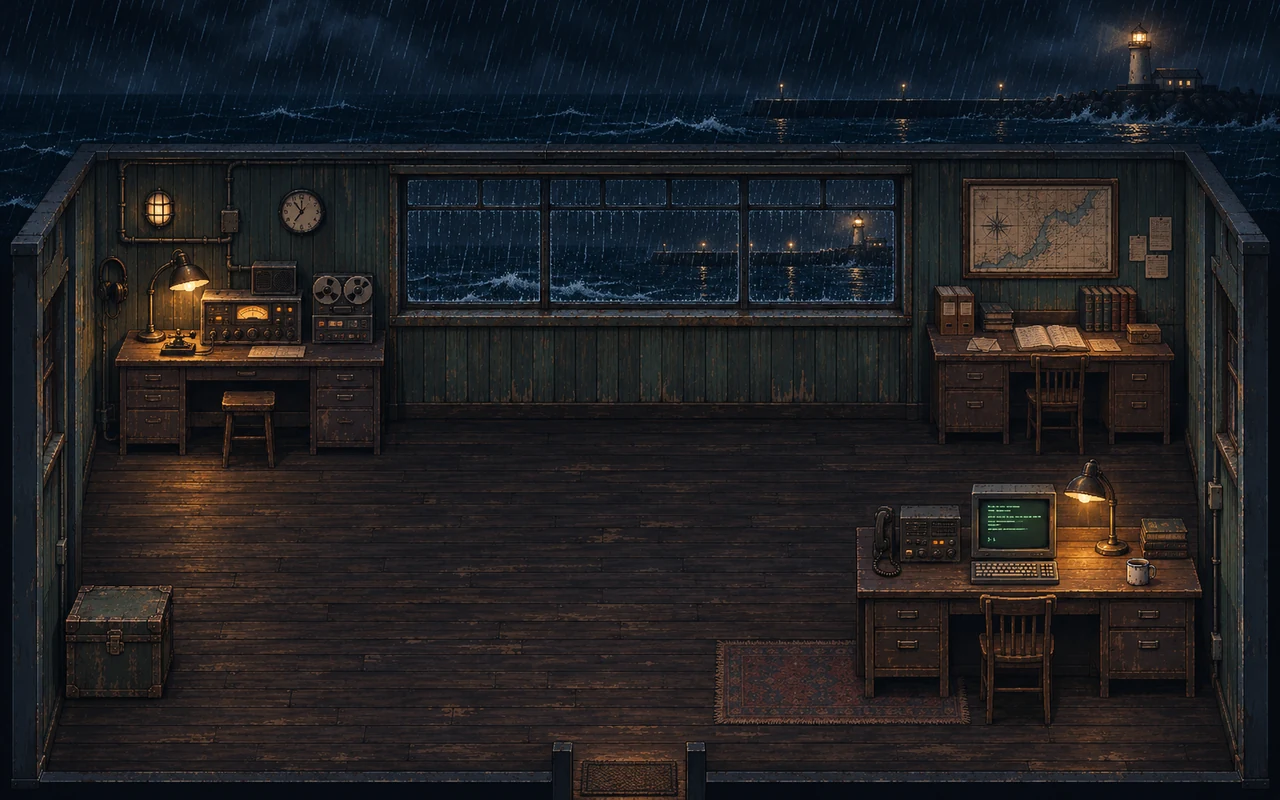
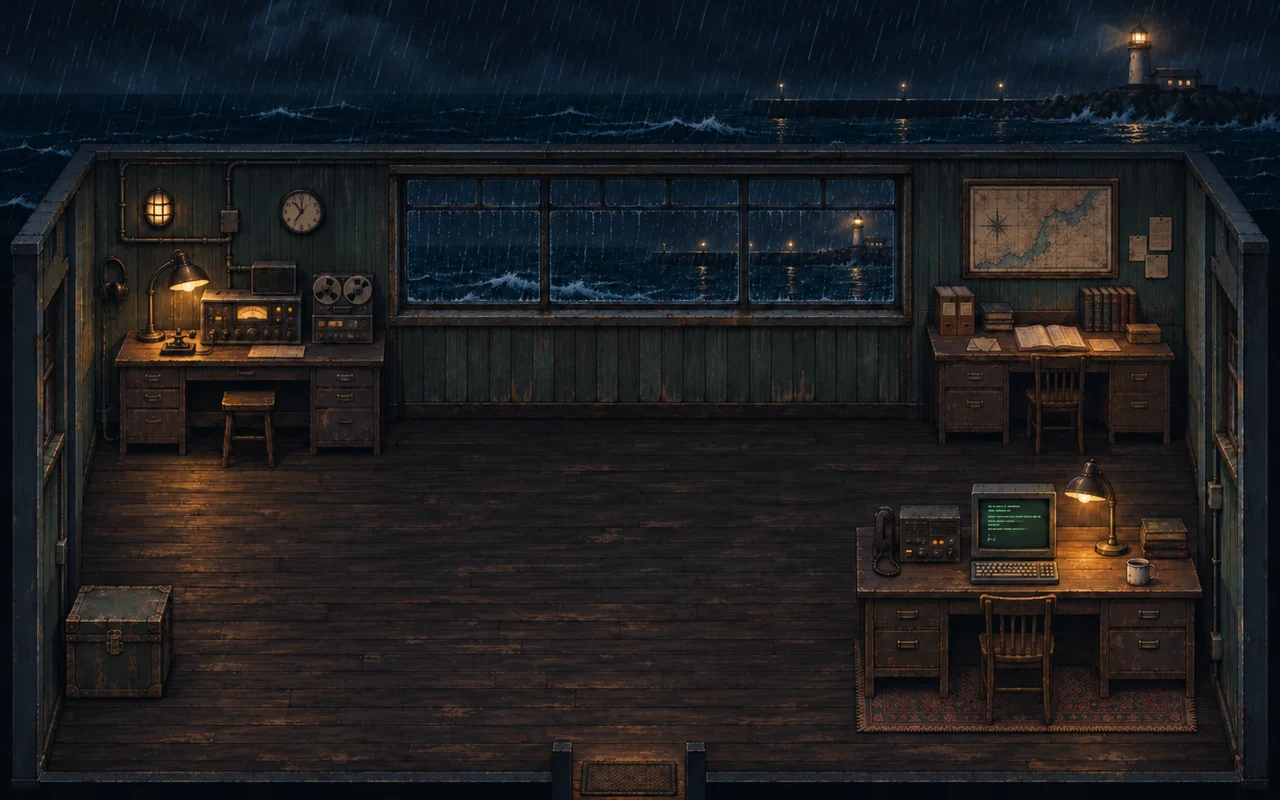
Polish room collision, perspective, quest beacons and furniture occlusion

diff --git a/src/styles/game.css b/src/styles/game.css
@@ -21,11 +21,13 @@ h1, h2 { font-family: Georgia, serif; font-weight: 400; line-height: 1.08; }
 .station, .rain, .objects { pointer-events: none; }
 .station { image-rendering: pixelated; transition: filter 1.2s ease; }
 .live .station { filter: brightness(1.05); }
+.terminal-foreground { z-index: 351; mask: url("../../assets/scenes/terminal-occlusion.svg") center / 100% 100% no-repeat; -webkit-mask: url("../../assets/scenes/terminal-occlusion.svg") center / 100% 100% no-repeat; }
+.chair-foreground { z-index: 364; mask: url("../../assets/scenes/chair-occlusion.svg") center / 100% 100% no-repeat; -webkit-mask: url("../../assets/scenes/chair-occlusion.svg") center / 100% 100% no-repeat; }
 .rain::before, .rain::after { content: ""; position: absolute; background: repeating-linear-gradient(112deg, transparent 0 43px, #9aaeb01a 45px 46px, transparent 47px 83px); animation: rain 1.6s linear infinite; }
 .rain::before { inset: 0 0 81%; }
 .rain::after { left: 31.6%; top: 22.5%; width: 38.5%; height: 15.6%; }
 @keyframes rain { to { background-position: -25px 44px; } }
-.sprite { position: absolute; width: 8.75%; aspect-ratio: 2 / 3; translate: -50% -92.857143%; background: url("../../assets/characters/echo-night.png") no-repeat 0 0 / 400% 300%; image-rendering: pixelated; pointer-events: none; z-index: 2; filter: drop-shadow(0 1px 1px #060b10); }
+.sprite { position: absolute; width: 8.75%; aspect-ratio: 2 / 3; transform-origin: 50% 92.857143%; translate: -50% -92.857143%; background: url("../../assets/characters/echo-night.png") no-repeat 0 0 / 400% 300%; image-rendering: pixelated; pointer-events: none; z-index: 2; filter: drop-shadow(0 1px 1px #060b10); }
 .sprite::before { position: absolute; content: ""; inset: 90% 25% 3%; border-radius: 50%; background: #060b1080; z-index: -1; }
 /* Verified sheet columns: down, right, up, left. */
 .player[data-dir="up"] { background-position-x: calc(200% / 3); }
@@ -42,11 +44,14 @@ h1, h2 { font-family: Georgia, serif; font-weight: 400; line-height: 1.08; }
 .live .lamp-signal { animation: glow 2.2s ease-in-out infinite alternate; }
 @keyframes glow { from { opacity: .37; } to { opacity: 1; } }
 .objects { z-index: 400; }
-.marker { pointer-events: auto; position: absolute; translate: -50% -100%; display: flex; align-items: center; gap: 5px; border: 1px solid #87765d; background: #23272bed; color: #f8ddb5; border-radius: 4px; padding: 4px 7px; white-space: nowrap; font: clamp(9px, 1.2vw, 12px)/1.2 var(--mono); box-shadow: 0 2px 6px #0e131aaa; }
-.marker::before { content: "◇"; color: var(--amber); }
-.marker:hover, .marker.near { background: #3f392e; border-color: var(--amber); }
-.marker.current::before { content: "◆"; }
-.marker.call { border-color: var(--aqua); color: var(--aqua); }
+.marker { pointer-events: auto; position: absolute; translate: -50% -100%; width: clamp(28px, 2.7vw, 38px); height: clamp(28px, 2.7vw, 38px); padding: 0; border: 1px solid transparent; border-radius: 7px; background: transparent; font-size: 0; line-height: 0; }
+/* Only recommended targets receive a visible beacon or box. Other props keep
+   their click/keyboard interaction, with a label available on hover or focus. */
+.marker.current { background: #211c13dc; border-color: #e3b978; box-shadow: 0 2px 9px #070b11aa; }
+.marker.current::before { content: ""; position: absolute; left: 50%; top: 50%; translate: -50% -50%; width: 9px; height: 9px; border-radius: 50%; background: #ffda89; box-shadow: 0 0 0 4px #eabb7c22, 0 0 12px #f1bc6eaa; animation: beacon 2s ease-in-out infinite alternate; }
+.marker.current:hover, .marker.current.near { background: #40321be8; border-color: #ffe1a4; }
+.marker:hover::after, .marker:focus-visible::after { content: attr(aria-label); position: absolute; left: 50%; top: calc(100% + 5px); translate: -50% 0; width: max-content; max-width: 170px; padding: 5px 8px; border: 1px solid #596364; border-radius: 4px; background: #152026ed; color: var(--text); white-space: nowrap; font: 11px/1.3 var(--mono); pointer-events: none; }
+@keyframes beacon { to { box-shadow: 0 0 0 6px #eabb7c16, 0 0 17px #ffd589cc; } }
 .prompt { position: absolute; z-index: 401; bottom: 9px; left: 50%; translate: -50% 0; width: max-content; max-width: 93%; text-align: center; color: var(--amber); background: #131d23ed; border: 1px solid #846e53; padding: 4px 8px; border-radius: 4px; font-size: 11px; pointer-events: none; }
 .eyebrow { color: var(--amber); font-size: 11px; letter-spacing: .15em; margin: 19px 0 9px; text-transform: uppercase; }
 h2 { font-size: 31px; }
@@ -71,21 +76,15 @@ dialog::backdrop { background: #0a1017a8; }
 .action.primary, .action.suggested { background: #363429; border-color: #9f835d; }
 .action .tag { display: block; color: var(--amber); font: 10px var(--mono); text-transform: uppercase; letter-spacing: .1em; margin-bottom: 4px; }
 
-@media (max-width: 430px) {
-  .marker { padding: 5px 6px; min-height: 26px; }
-  .marker::before { display: none; }
-}
 @media (prefers-reduced-motion: reduce) { *, *::before, *::after { animation: none !important; transition: none !important; } }
 
 /* The map fills the game surface. Menus are opened on demand. */
 body { overflow: hidden; background: #0d151d; }
 .game-screen { display: grid; place-items: center; width: 100%; height: 100dvh; }
 .room { width: min(100vw, 160dvh); border: 0; }
-.marker { padding: 4px 6px; font-size: 0; border-color: transparent; background: #171f2480; box-shadow: none; }
-.marker::before { display: block; font-size: 12px; }
-.marker:hover, .marker:focus-visible { font-size: clamp(9px, 1.2vw, 12px); }
 .touch-menu { display: none; }
 @media (pointer: coarse) {
+  .marker { width: 44px; height: 44px; }
   .touch-menu { display: flex; gap: 8px; position: fixed; top: max(10px, env(safe-area-inset-top)); right: 10px; }
   .touch-menu button { width: 44px; height: 44px; background: #162228db; border: 1px solid var(--line); border-radius: 5px; }
 }

diff --git a/src/main.js b/src/main.js
@@ -1,12 +1,13 @@
-import { chapters, exercises } from "./data/story.js?v=night-station-1";
-import { interactionPoints, obstacles, maraObstacle, walkBounds, playerStart } from "./data/station.js?v=night-station-1";
-import { distance, findRoute } from "./core/navigation.js?v=night-station-1";
-import { isSoundOn, toggleSound, startAmbience, stopAmbience, footstep, playEffect } from "./audio/sound.js?v=night-station-1";
-import { creditsMarkup } from "./data/credits.js?v=night-station-1";
-import { byId, dialog, show, close, done, configureDialog } from "./ui/dialog.js?v=night-station-1";
+import { chapters, exercises } from "./data/story.js?v=room-polish-1";
+import { interactionPoints, playerStart } from "./data/station.js?v=room-polish-1";
+import { canStand, actorScale } from "./core/world.js?v=room-polish-1";
+import { distance, findRoute } from "./core/navigation.js?v=room-polish-1";
+import { isSoundOn, toggleSound, startAmbience, stopAmbience, footstep, playEffect } from "./audio/sound.js?v=room-polish-1";
+import { creditsMarkup } from "./data/credits.js?v=room-polish-1";
+import { byId, dialog, show, close, done, configureDialog } from "./ui/dialog.js?v=room-polish-1";
 
-import { createRadioScene } from "./scenes/radio.js?v=night-station-1";
-import { createCallScene } from "./scenes/call.js?v=night-station-1";
+import { createRadioScene } from "./scenes/radio.js?v=room-polish-1";
+import { createCallScene } from "./scenes/call.js?v=room-polish-1";
 
 configureDialog(stopWalking);
 
@@ -56,6 +57,7 @@ for (const [id, station] of Object.entries(stations)) {
   marker.style.left = `${(station.markerX ?? station.x) / 6.4}%`;
   marker.style.top = `${station.markerY / 4}%`;
   marker.textContent = station.label;
+  marker.ariaLabel = station.label;
   marker.addEventListener("click", () => walkTo(station, station.use));
   byId("objects").append(marker);
   station.marker = marker;
@@ -66,15 +68,15 @@ function place(element, point) {
   element.style.left = `${point.x / 6.4}%`;
   element.style.top = `${point.y / 4}%`;
   element.style.zIndex = Math.round(point.y);
+  element.style.scale = actorScale(point.y).toFixed(3);
 }
 
 function walkable({ x, y }) {
-  const inside = ([left, top, right, bottom]) =>
-    x >= left && x <= right && y >= top && y <= bottom;
-  return x >= walkBounds.left && x <= walkBounds.right
-    && y >= walkBounds.top && y <= walkBounds.bottom
-    && !obstacles.some(inside)
-    && (byId("mara-sprite").hidden || !inside(maraObstacle));
+  return canStand({ x, y }, !byId("mara-sprite").hidden);
+}
+
+function interactionDistance(point, station) {
+  return Math.min(...(station.approaches ?? [station]).map((target) => distance(point, target)));
 }
 
 function stopWalking() {
@@ -86,8 +88,8 @@ function stopWalking() {
 
 function nearStation() {
   return Object.values(stations)
-    .filter((station) => !station.marker.hidden && distance(position, station) <= interactRange)
-    .sort((a, b) => distance(position, a) - distance(position, b))[0];
+    .filter((station) => !station.marker.hidden && interactionDistance(position, station) <= interactRange)
+    .sort((a, b) => interactionDistance(position, a) - interactionDistance(position, b))[0];
 }
 
 function renderPlayer() {
@@ -103,11 +105,14 @@ function renderPlayer() {
 function walkTo(target, use) {
   if (dialog.open) return;
   stopWalking();
-  if (use && distance(position, target) <= interactRange) {
+  if (use && interactionDistance(position, target) <= interactRange) {
     use();
     return;
   }
-  const route = findRoute(position, target, walkable, use ? interactRange - 4 : 6);
+  const routes = (use ? target.approaches ?? [target] : [target])
+    .map((point) => findRoute(position, point, walkable, use ? interactRange - 4 : 6));
+  const route = routes.filter((candidate) => candidate.reached)
+    .sort((a, b) => a.path.length - b.path.length)[0] ?? routes[0];
   path = route.path;
   if (use && route.reached) destination = use;
 }
@@ -251,9 +256,11 @@ function renderWorld() {
   byId("mara-sprite").hidden = live;
   stations.mara.marker.hidden = live;
   stations.terminal.marker.textContent = live ? "Live terminal" : "Terminal";
-  stations.terminal.marker.classList.toggle("call", state.phase === "live");
+  stations.terminal.marker.ariaLabel = stations.terminal.marker.textContent;
+  const archiveReady = ["tape", "letter", "manual", "comparison"]
+    .every((id) => state.evidence.has(id));
   const active = {
-    mara: ["arrival", "archive", "ready"].includes(state.phase),
+    mara: ["arrival", "ready"].includes(state.phase) || (state.phase === "archive" && archiveReady),
     radio: ["archive", "investigation"].includes(state.phase) && !state.evidence.has(live ? "live" : "comparison"),
     archive: (state.phase === "archive" && (!state.evidence.has("manual") || !state.evidence.has("letter")))
       || (state.phase === "investigation" && !state.evidence.has("rechecked")),

diff --git a/index.html b/index.html
@@ -7,13 +7,15 @@
   <meta name="description" content="A short narrative RPG about the night a harbor signal station goes live.">
   <title>Last Light · Signal House</title>
   <link rel="icon" href="./assets/ui/icon.svg" type="image/svg+xml">
-  <link rel="stylesheet" href="./src/styles/game.css?v=night-station-1">
-  <script type="module" src="./src/main.js?v=night-station-1"></script>
+  <link rel="stylesheet" href="./src/styles/game.css?v=room-polish-1">
+  <script type="module" src="./src/main.js?v=room-polish-1"></script>
 </head>
 <body>
   <main class="game-screen" aria-label="Signal House game">
         <div id="room" class="room">
-          <img class="station" src="./assets/scenes/station-night.webp" alt="" draggable="false">
+          <img class="station" src="./assets/scenes/station-night.webp?v=room-polish-1" alt="" draggable="false">
+          <img class="station terminal-foreground" src="./assets/scenes/station-night.webp?v=room-polish-1" alt="" aria-hidden="true" draggable="false">
+          <img class="station chair-foreground" src="./assets/scenes/station-night.webp?v=room-polish-1" alt="" aria-hidden="true" draggable="false">
           <div class="rain" aria-hidden="true"></div>
           <div class="sprite player" id="player" aria-hidden="true"></div>
           <div class="sprite mara" id="mara-sprite" aria-hidden="true"></div>

diff --git a/src/data/station.js b/src/data/station.js
@@ -6,10 +6,16 @@ export const interactionPoints = {
   mara: { label: "Mara", x: 319, y: 243, markerY: 164 },
   radio: { label: "Radio", x: 143, y: 248, markerY: 157 },
   archive: { label: "Archive", x: 522, y: 248, markerX: 528, markerY: 154 },
-  terminal: { label: "Terminal", x: 410, y: 320, markerX: 507, markerY: 243 },
+  terminal: {
+    label: "Terminal", x: 410, y: 320, markerX: 507, markerY: 243,
+    approaches: [{ x: 410, y: 320 }, { x: 467, y: 369 }, { x: 513, y: 376 }],
+  },
 };
 export const obstacles = [
   [51, 154, 202, 235], [462, 146, 595, 232],
-  [425, 243, 609, 364], [32, 288, 94, 362],
+  // Desk and chair have separate floor footprints. The monitor/lamp silhouettes
+  // above the desk do not block the passage to the archive.
+  [429, 286, 603, 351], [488, 337, 531, 364], [32, 288, 94, 362],
 ];
-export const maraObstacle = [308, 225, 330, 243];
+// Includes room for the player's feet on every side of Mara, including in front.
+export const maraObstacle = [293, 218, 345, 268];

diff --git a/src/core/world.js b/src/core/world.js
@@ -1,0 +1,16 @@
+import { obstacles, maraObstacle, walkBounds } from "../data/station.js?v=room-polish-1";
+
+export function canStand({ x, y }, maraPresent = true) {
+  const inside = ([left, top, right, bottom]) =>
+    x >= left && x <= right && y >= top && y <= bottom;
+  return x >= walkBounds.left && x <= walkBounds.right
+    && y >= walkBounds.top && y <= walkBounds.bottom
+    && !obstacles.some(inside)
+    && (!maraPresent || !inside(maraObstacle));
+}
+
+export function actorScale(y) {
+  // Match the painted room's perspective. Scale around the feet, not the head.
+  const depth = Math.max(0, Math.min(1, (y - walkBounds.top) / (walkBounds.bottom - walkBounds.top)));
+  return .92 + depth * .48;
+}

diff --git a/src/scenes/radio.js b/src/scenes/radio.js
@@ -1,6 +1,6 @@
-import { show, done } from "../ui/dialog.js?v=night-station-1";
-import { playSignal, stopSignal, playEffect } from "../audio/sound.js?v=night-station-1";
-import { signalTrace } from "../ui/signal.js?v=night-station-1";
+import { show, done } from "../ui/dialog.js?v=room-polish-1";
+import { playSignal, stopSignal, playEffect } from "../audio/sound.js?v=room-polish-1";
+import { signalTrace } from "../ui/signal.js?v=room-polish-1";
 
 export function createRadioScene({ getState, mark }) {
   function open() {

diff --git a/src/scenes/call.js b/src/scenes/call.js
@@ -1,5 +1,5 @@
-import { show, close, done } from "../ui/dialog.js?v=night-station-1";
-import { playEffect } from "../audio/sound.js?v=night-station-1";
+import { show, close, done } from "../ui/dialog.js?v=room-polish-1";
+import { playEffect } from "../audio/sound.js?v=room-polish-1";
 
 // Caller reactions and report delivery share one session state so closing a
 // panel never discards a sent reply or submits the same report twice.

diff --git a/src/ui/dialog.js b/src/ui/dialog.js
@@ -1,4 +1,4 @@
-import { stopSignal, playEffect } from "../audio/sound.js?v=night-station-1";
+import { stopSignal, playEffect } from "../audio/sound.js?v=room-polish-1";
 
 export const byId = (id) => document.getElementById(id);
 export const dialog = byId("dialog");

diff --git a/README.md b/README.md
@@ -9,6 +9,7 @@ A short browser RPG set in a harbor radio station on a stormy night. Explore the
 | `index.html` | Game surface and dialog containers |
 | `src/main.js` | Game startup, player input, chapter progression and scene interactions |
 | `src/core/navigation.js` | Collision-aware route search and spatial calculations |
+| `src/core/world.js` | Floor collision checks and perspective scale |
 | `src/data/station.js` | Interaction positions and collision geometry |
 | `src/data/story.js` | Chapter objectives and training dialogue data |
 | `src/ui/dialog.js` | Dialog rendering, action buttons and modal lifecycle |
@@ -18,7 +19,7 @@ A short browser RPG set in a harbor radio station on a stormy night. Explore the
 | `src/ui/signal.js` | Accessible waveform views |
 | `tests/game-flow.cjs` | Module-based interaction and branching regression checks |
 | `src/styles/game.css` | Scene, character and menu presentation |
-| `assets/scenes/` | Unified rainy-night signal-house background |
+| `assets/scenes/` | Unified rainy-night background and desk/chair occlusion masks |
 | `assets/characters/` | Matching adult player walk sheet and Mara sprite |
 | `assets/audio/` | Compressed rain, movement and device recordings |
 | `assets/ui/` | Game icon |
@@ -53,6 +54,11 @@ The environment and actors were generated together around a dark timber coastal 
 
 Echo's sheet has four columns, **down / right / up / left**, and three rows, **idle / first stride / second stride**. Each cell is 112 × 168, with feet at pixel 156. Mara uses one cell with the same scale and baseline. Characters are sorted by foot position so the foreground actor covers the one behind. See `assets/art-direction.md` for source prompts and the optional asset packing command. The packer only processes existing artwork; it does not draw the scene or characters.
 
+Actors grow gradually toward the foreground, anchored at their feet. The terminal desk and chair are rendered again through separate SVG silhouette masks at their own floor depths, allowing them to cover actors walking behind them. These layers reuse the same cached background artwork. Desk, chair and Mara have separate collision footprints; the terminal can be used from its left or front approaches.
+
+Only recommended targets show a centered, glowing gold beacon. Unrecommended props remain interactive through proximity and E, clicking their hotspot, or focusing their accessible button. The archive phase suggests Mara only after the required evidence has been collected.
+
 Rain starts after Begin Night Shift, pauses when the page is hidden and stops on return to the title. Audio playback failures leave the game playable.
 
 Run `node --experimental-vm-modules tests/audio.cjs` to check audio mute, visibility and replay behavior.
+Run `node --experimental-vm-modules tests/world.cjs` to check the archive passage, desk/chair footprints, NPC clearance and perspective scale. The game-flow checks also verify which targets are recommended at each stage.

diff --git a/assets/art-direction.md b/assets/art-direction.md
@@ -20,6 +20,12 @@ figure is taller than the desks, unlike the previous miniature chibi actors.
 Collision geometry follows the final image, rather than the requested generation
 coordinates: `src/data/station.js` is authoritative.
 
+Runtime actor size varies with floor depth, from 0.92 at the back to 1.40 at the
+front, scaling around the foot baseline. The desktop and chair use distinct
+foreground silhouette masks and depth values. Their artwork comes from the same
+background, retaining identical textures and lighting. The large rug is placed
+under the terminal workstation and chair; the small entrance mat stays at the door.
+
 All three visuals used the built-in OpenAI image-generation tool. Echo and Mara
 used the new background as their style/palette reference. Downloaded CC0 audio is
 retained; its sources are in `ASSET_CREDITS.md`.
@@ -110,6 +116,29 @@ Genuinely transparent background. No floor, no objects, no text, no labels, no
 grid. Include generous transparent margin on all sides.
 
 ## Packing
+
+### Rug correction prompt
+
+Use case: precise-object-edit. Edit target: the supplied EXISTING GAME BACKGROUND.
+Make ONE localized correction to the large reddish rug at the LOWER RIGHT
+workstation. It is currently floating awkwardly out to the LEFT of the computer
+desk. Move that same rug to sit squarely UNDER the computer desk AND chair, with
+its long edges parallel to the desk and floor planks. Its left edge should be
+underneath the left desk pedestal, not sticking out into the central walking area;
+its visible near edge should lie just in front of the chair's front feet. Restore
+the rug's former exposed position to matching uninterrupted dark wooden floor
+planks. Keep the SMALL existing entrance doormat at bottom center exactly unchanged.
+CRITICAL INVARIANTS: preserve camera, entire room composition, canvas aspect 8:5,
+exact window/wall/door geometry, all furniture positions and sizes, exact CRT
+monitor shape and position, radio, lamps, chair, chest, sea, lighthouse, rain, wood
+texture, every other object, lighting and color grade. Do NOT redesign the scene.
+Do not move or resize the desk or chair. No people, no UI. Only reposition the one
+larger rug and restore the exposed boards.
+
+This correction also used the built-in image-generation tool. Use the corrected
+background as the first input when repacking the current release.
+
+### Runtime export
 
 The final game scale was increased after visual inspection to match desk height.
 `tools/prepare_art.py` performs technical resizing, alpha fringe cleanup and
